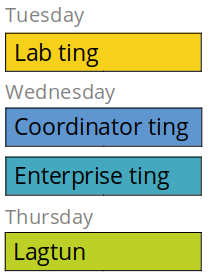
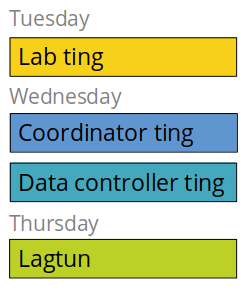
tingweek updates

Changed region(s): [[0.0, 0.0287, 0.9714, 0.9749]]

diff --git a/docs/govern-science/tingweek/README.md b/docs/govern-science/tingweek/README.md
@@ -14,6 +14,8 @@ description: This section list information and questions for the HUNT Cloud Ting
 
 We arrange a layered set of Tings for distinct groups in our community. The meetings are spread out over one week in the winter, spring and autumn. We call these weeks "Tingweeks".
 
+
+
 ::: tip Next Tingweek (Ting 8)
 
 - **Lab ting**: Tuesday 14 February 2023 - 2 to 4 p.m. CET ([agenda](https://assets.hdc.ntnu.no/assets/tingweek/hunt-cloud-tingweek8-labting-agenda.pdf))
@@ -22,6 +24,7 @@ We arrange a layered set of Tings for distinct groups in our community. The meet
 - **Lagtun**: Thursday 16 February 2023 - 9 to 11 a.m. CET ([agenda](https://assets.hdc.ntnu.no/assets/tingweek/hunt-cloud-tingweek8-lagtun-agenda.pdf))
 
 :::
+
 
 
 
@@ -69,10 +72,10 @@ Memberships to the Tings are derived from the following registered roles in cont
 
 | Ting | Invitations |
 | - | - |
-| **Lab ting** | All active lab users. |
-| **Data space ting** | All coordinators in data spaces. |
-| **Enterprise ting** | All active users registered or associated with a private enterprise. |
-| **Lagtun** | Data controllers, service centers and data spaces on the BLUE subscription level ([read more](/govern-science/tingweek/lagtun/#representatives)). |
+| **Lab ting** | Active lab users. |
+| **Data space ting** | Data space administrators. |
+| **Data controller ting** | Data space compliance administrators, Privacy and security officers from Data controllers. |
+| **Lagtun** | Representatives from Data controllers, Service centers and Data spaces on the BLUE subscription level ([read more](/govern-science/tingweek/lagtun/#representatives)). |
 
 
 ## Schedule
@@ -90,6 +93,9 @@ Tingweeks are scheduled over one week in the winter, spring and autumn: (i) The 
 
 ![Ting schedule days](./images/tingweek-schedule-days.png)
 
-Individual Tings are scheduled over the week on the same time slots. The current scheule is as follows: Lab tings are held on Tuesdays 2-4 pm CET, Data space tings on Wednesdays 9-11 am CET, Enterprise tings on Wednesdays 1-3 pm CET and Lagtun on Thursdays 9-11 am CET.
+Individual Tings are scheduled over the week on the same time slots. The current scheule is as follows: Lab ting is held on Tuesdays 2-4 pm CET, Data space ting on Wednesdays 9-11 am CET, Data controller ting on Wednesdays 1-3 pm CET and Lagtun on Thursdays 9-11 am CET.
 
+#### Tingweek schedule with times and scope
+
+!["Tingweek schedule"](./images/tingweek-schedule-times.png)
 

diff --git a/docs/govern-science/tingweek/faq.md b/docs/govern-science/tingweek/faq.md
@@ -22,13 +22,23 @@ The inspiration to appoint time to meet at regular intervals in a layered struct
 
 No. Our tings are not the same as a general assembly (generalforsamling) with binding decisions. As of today, our tings are to be seen as a gathering of people that both champion and dream up ideas on how to best utilize data for a better world. HUNT Cloud is owned by NTNU which has the full financial and compliance responsibilities for our services.
 
-### How do I get invited?
+## Participation
+
+### Short on time, which Ting should I prioritize? 
+
+All where you are invited ;-) That said, we know science never sleeps, so if you are short on time and hold several roles and such recieve several invitations: Here's a quick reminder of the scope of the different meetings to help you prioritize. 
+
+!["Tingweek schedule"](./images/tingweek-schedule-times.png)
+
+You can read more about the different Tings in our [main Tingweek page](/govern-science/tingweek/#tings).
+
+### How do I get my invitation?
 
 Ting invitations, agenda and digital meeting links are forwarded on email a few weeks before the Ting week. Dates will also be announced on these pages and on Slack.
 
 ### Where do we meet?
 
-We will meet digitally at Zoom utilizing the NTNU subscription. Links will be forwarded on email and on Slack for the lab ting.
+We will meet digitally at Zoom utilizing the NTNU subscription. Links will be forwarded on email and on Slack for the lab ting and the data space ting.
 
 
 
